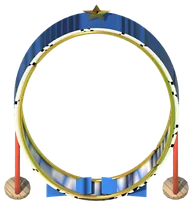
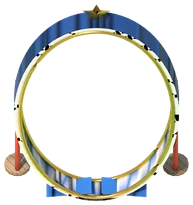
Cartoon Coast: the loop-the-loop's towers stand behind the track, clear of the spaces
Its lattice towers stood at the oval's sides, right on the spaces either side of
the loop (q0 and q2). They are now set back behind the track, with an arm
forward to its side, so their feet sit above the trail. Only the loop prop is
re-rendered (same sprite size and anchor), plus its Lite copy.

Claude-Session: https://claude.ai/code/session_01SaCmMRmT6ous3ZUywnLqEj

diff --git a/scripts/art/worlds/toons/board_props.py b/scripts/art/worlds/toons/board_props.py
@@ -64,18 +64,23 @@ def loop_the_loop(bx, by, R=1.55, s=1.0, tall=1.75) -> list:
         rim = [(pt(t, -0.02 * s)[0], y + dy, pt(t, -0.02 * s)[1]) for t in ts]
         v, f = lib.tube(rim, 0.04 * s, 6)
         P.b['metal'].add(v, f, GOLD)
-    # lattice towers under both sides of the oval
+    # lattice towers under both sides of the oval, set back behind the track so their feet stay
+    # clear of the spaces either side of the loop (the trail runs through its foot)
+    back = 0.6 * s
     for sgn in (-1, 1):
         tx = x + sgn * Rx * 1.02
         top = Rz * 0.95
-        for dy in (-0.16 * s, 0.16 * s):
+        for dy in (back - 0.16 * s, back + 0.16 * s):
             v, f = lib.cylinder((tx, y + dy, 0.0), 0.05 * s, 0.045 * s, top, 8)
             P.b['paint'].add(v, f, col('#e8483b'))
         for k in range(5):
             z0 = k * top / 5
-            v, f = lib.tube([(tx, y - 0.16 * s, z0), (tx, y + 0.16 * s, z0 + top / 5)], 0.018 * s, 5)
+            v, f = lib.tube([(tx, y + back - 0.16 * s, z0), (tx, y + back + 0.16 * s, z0 + top / 5)], 0.018 * s, 5)
             P.b['paint'].add(v, f, col('#c83a30'))
-        v, f = lib.lathe([(0.26 * s, 0.0), (0.26 * s, 0.1 * s), (0.0, 0.1 * s)], 14, (tx, y, 0.0))
+        # an arm from the tower's top forward to the side of the track
+        v, f = lib.tube([(tx, y + back, top), (tx, y + width / 2, top)], 0.035 * s, 6)
+        P.b['paint'].add(v, f, col('#e8483b'))
+        v, f = lib.lathe([(0.26 * s, 0.0), (0.26 * s, 0.1 * s), (0.0, 0.1 * s)], 14, (tx, y + back, 0.0))
         P.b['stone'].add(v, f, col('#d8cbb8'))
     # run-in ramps along the trail at both feet
     for sgn in (-1, 1):
